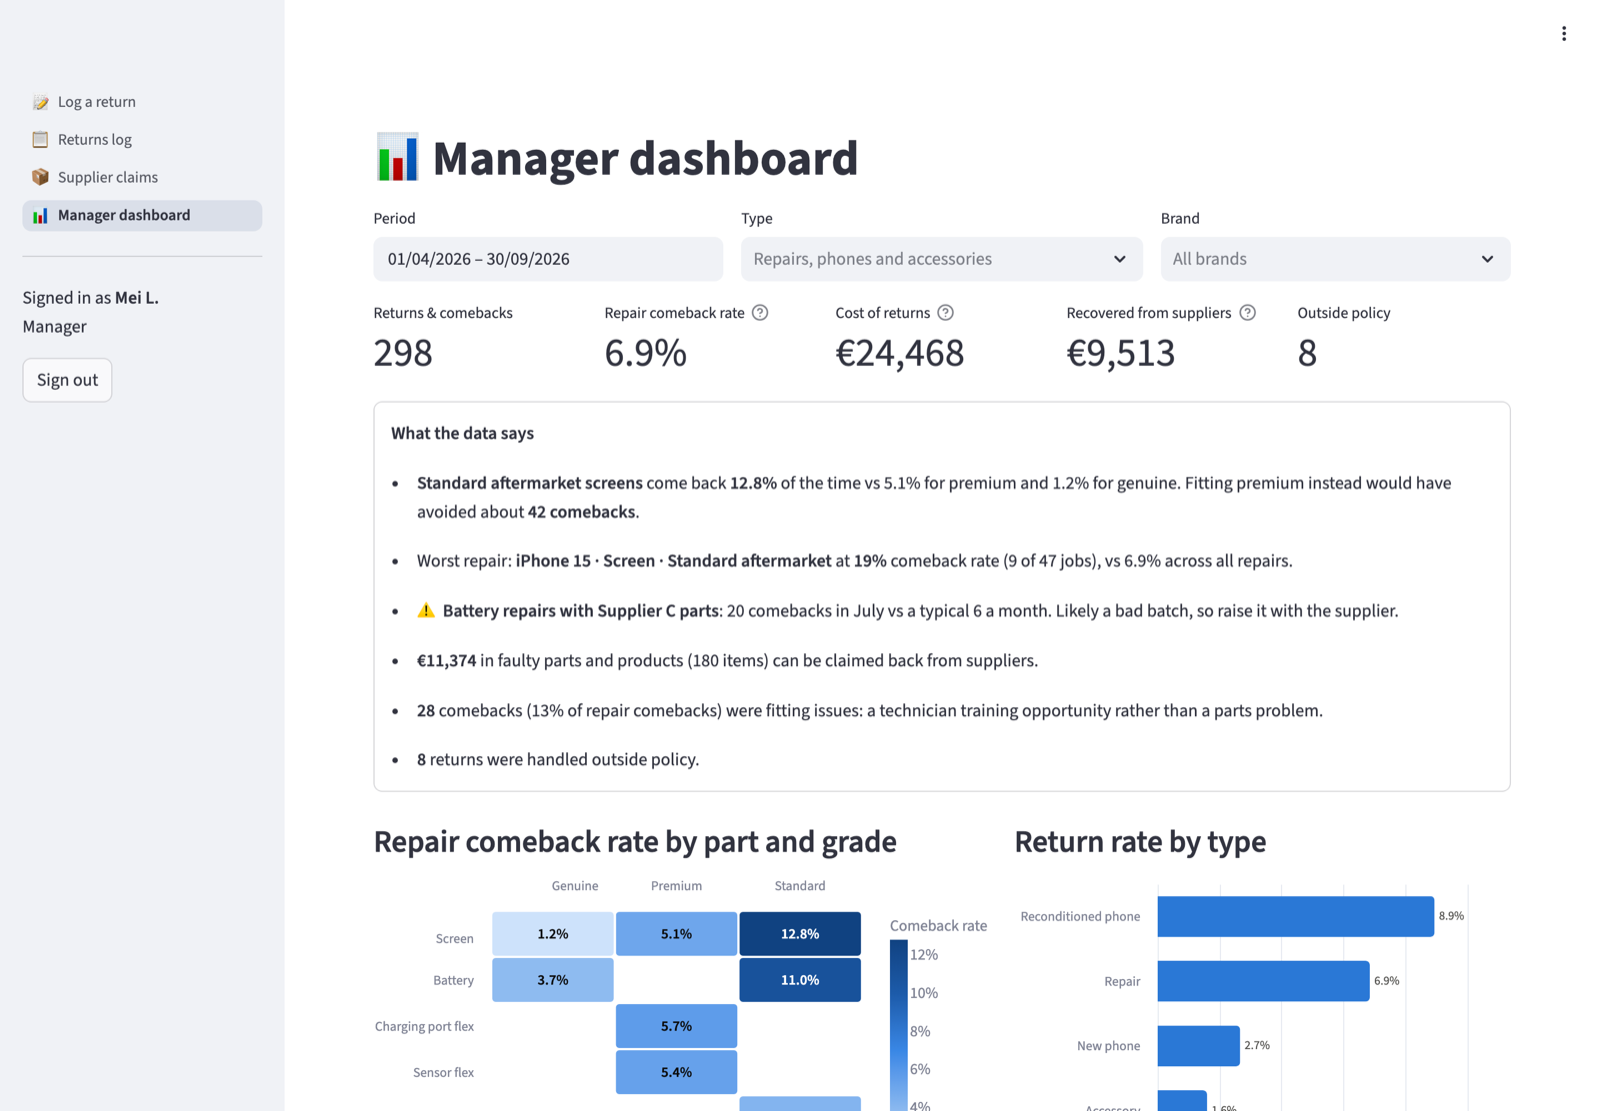
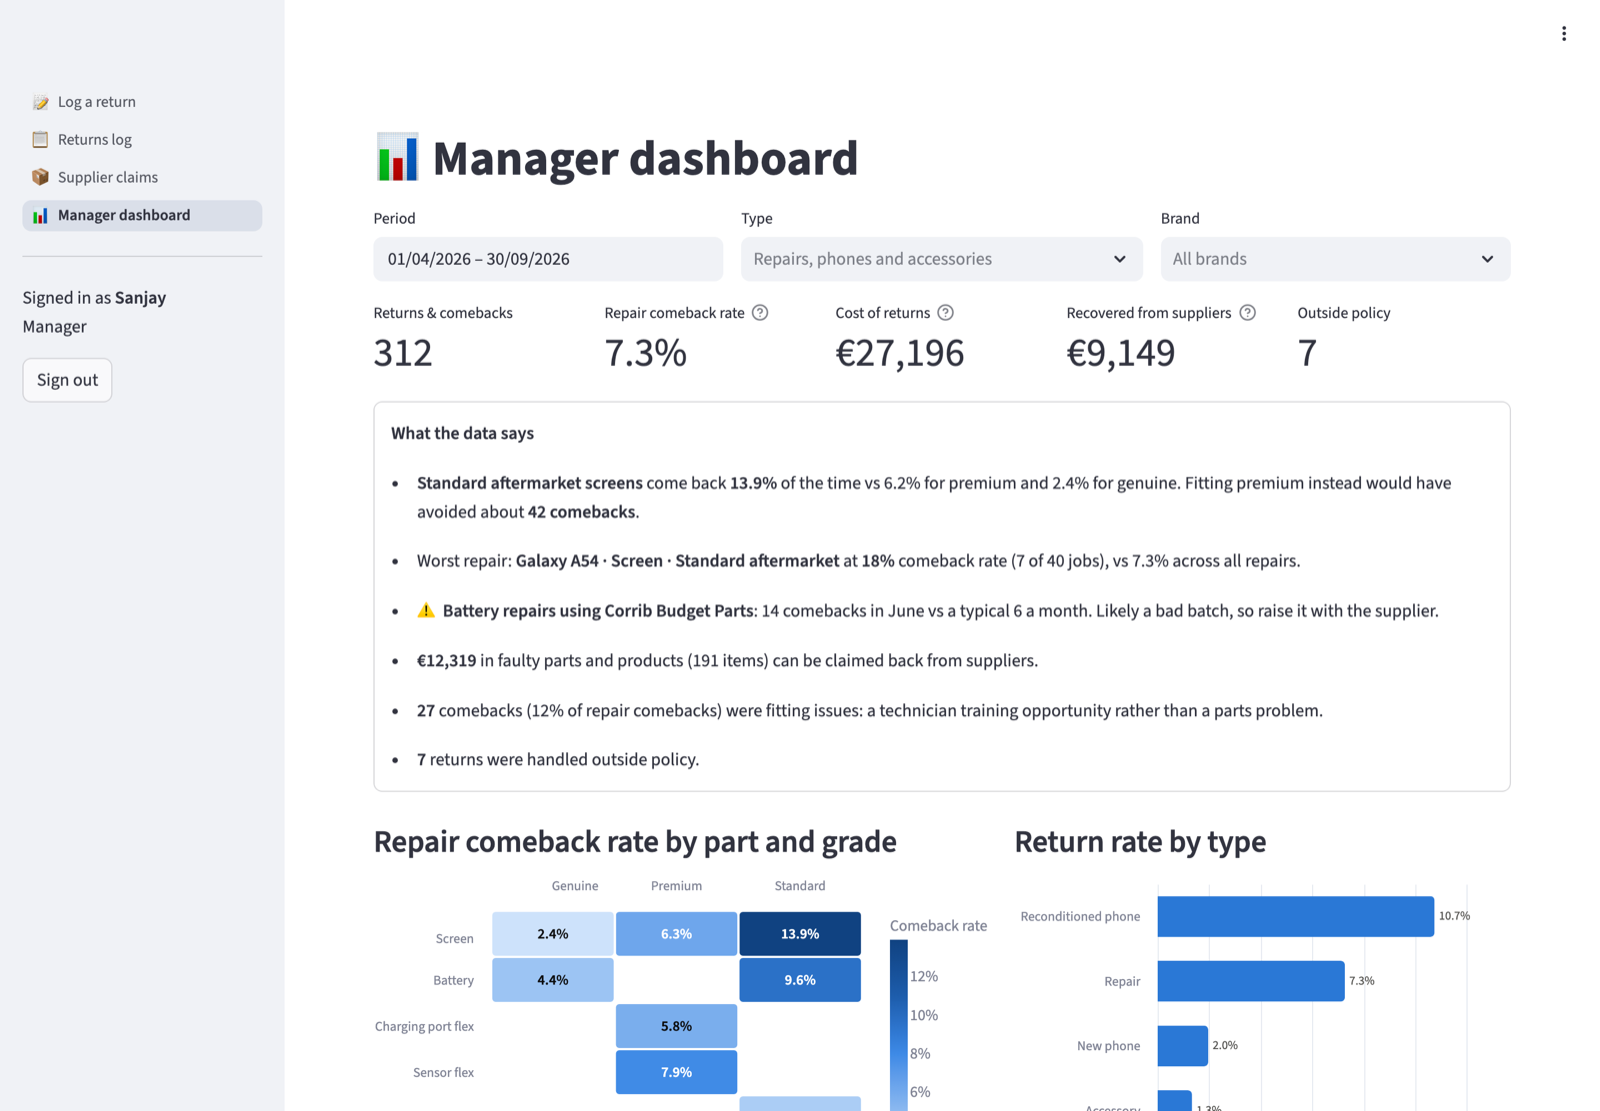
One-click demo sign-in (no passwords shown), fictional Irish supplier names, staff renamed

diff --git a/tracker/seed.py b/tracker/seed.py
@@ -5,7 +5,7 @@ Returns: ~300, mostly repair comebacks on fitted parts.
 
 Built-in patterns (so the dashboard has something to find):
 - Standard aftermarket screens come back ~5x more often than genuine screens.
-- Supplier C's aftermarket batteries had a bad batch (jobs from late May to early July).
+- Corrib Budget Parts' aftermarket batteries had a bad batch (jobs from late May to early July).
 - Google Pixel screen repairs often come back with fingerprint-sensor problems.
 - Sensor flex repairs (Face ID / proximity) are the trickiest part to get right.
 - Cheap wireless earbuds and fast chargers are the accessories most often returned faulty.
@@ -35,7 +35,8 @@ DEVICES = {
     "OnePlus 9": ("OnePlus", 189, 65, 55), "OnePlus 10 Pro": ("OnePlus", 229, 69, 59),
     "OnePlus Nord 3": ("OnePlus", 139, 55, 49),
 }
-GRADE_SUPPLIER = {"Genuine": "Supplier A", "Premium aftermarket": "Supplier B", "Standard aftermarket": "Supplier C"}
+GRADE_SUPPLIER = {"Genuine": "Harbourline Parts", "Premium aftermarket": "Liffeyside Spares",
+                  "Standard aftermarket": "Corrib Budget Parts"}  # fictional supplier names
 GRADE_PRICE = {"Genuine": 1.0, "Premium aftermarket": 0.6, "Standard aftermarket": 0.42}
 GRADE_COST = {"Genuine": 0.45, "Premium aftermarket": 0.35, "Standard aftermarket": 0.28}
 
@@ -70,8 +71,8 @@ ACCESSORIES = [  # subcategory, name, price, cost, sales weight, return rate, wa
     ("Storage & memory", "MicroSD card 128GB", 22, 8, 3, 0.010, 90),
     ("Storage & memory", "USB flash drive 64GB", 15, 5, 2, 0.008, 90),
 ]
-STAFF = [("Ciarán B.", "technician", "ciaran"), ("Priya S.", "technician", "priya"), ("Aoife M.", "sales", "aoife"),
-         ("Tomás K.", "sales", "tomas"), ("Mei L.", "manager", "mei")]
+STAFF = [("Sanjay", "manager", "sanjay"), ("Karolina", "technician", "karolina"),
+         ("William", "technician", "william"), ("Kariana", "sales", "kariana")]
 
 BRAND_SHARE = {"Apple": 45, "Samsung": 30, "Google": 12, "OnePlus": 13}
 PART_SHARE = {"Screen": 50, "Battery": 25, "Charging port flex": 10, "Sensor flex": 5, "Back glass": 6, "Camera": 4}
@@ -134,27 +135,27 @@ def _catalogue():
             price = battery if grade == "Genuine" else round(battery * 0.75)
             rows.append(("Repair", None, brand, device, "Battery", grade, GRADE_SUPPLIER[grade], 90, price,
                          round(price * GRADE_COST[grade], 2)))
-        rows.append(("Repair", None, brand, device, "Charging port flex", "Premium aftermarket", "Supplier B", 90,
+        rows.append(("Repair", None, brand, device, "Charging port flex", "Premium aftermarket", "Liffeyside Spares", 90,
                      small, round(small * 0.3, 2)))
-        rows.append(("Repair", None, brand, device, "Sensor flex", "Premium aftermarket", "Supplier B", 90,
+        rows.append(("Repair", None, brand, device, "Sensor flex", "Premium aftermarket", "Liffeyside Spares", 90,
                      small + 30, round((small + 30) * 0.35, 2)))
         if brand != "OnePlus":
-            rows.append(("Repair", None, brand, device, "Back glass", "Standard aftermarket", "Supplier C", 90,
+            rows.append(("Repair", None, brand, device, "Back glass", "Standard aftermarket", "Corrib Budget Parts", 90,
                          small + 20, round((small + 20) * 0.25, 2)))
-        rows.append(("Repair", None, brand, device, "Camera", "Genuine", "Supplier A", 90,
+        rows.append(("Repair", None, brand, device, "Camera", "Genuine", "Harbourline Parts", 90,
                      small + 40, round((small + 40) * 0.45, 2)))
     for brand, device, price, cost in NEW_PHONES:
-        rows.append(("New phone", None, brand, device, "Brand new", None, "Distributor", 30, price, cost))
+        rows.append(("New phone", None, brand, device, "Brand new", None, "Celtic Handset Distribution", 30, price, cost))
     for brand, device, grade, price, cost in RECON_PHONES:
-        rows.append(("Reconditioned phone", None, brand, device, grade, None, "Refurb partner", 180, price, cost))
+        rows.append(("Reconditioned phone", None, brand, device, grade, None, "Renew Mobile Refurb", 180, price, cost))
     for sub, name, price, cost, _, _, warranty in ACCESSORIES:
-        rows.append(("Accessory", sub, "Universal", None, name, None, "Supplier D", warranty, price, cost))
+        rows.append(("Accessory", sub, "Universal", None, name, None, "Emerald Isle Accessories", warranty, price, cost))
     return rows
 
 
 def _repair_return(rng, brand, part, grade, supplier, day):
     rate = COMEBACK[(part, grade)]
-    in_batch = part == "Battery" and supplier == "Supplier C" and BAD_BATTERY_BATCH[0] <= day <= BAD_BATTERY_BATCH[1]
+    in_batch = part == "Battery" and supplier == "Corrib Budget Parts" and BAD_BATTERY_BATCH[0] <= day <= BAD_BATTERY_BATCH[1]
     if in_batch:
         rate *= 3.5
     if brand == "Google" and part == "Screen":
@@ -208,11 +209,11 @@ def _product_return(rng, category, subcategory, rate, warranty=None):
 
 # How each supplier handles claims: days to respond, acceptance rate, what they give back when accepted
 SUPPLIER_TERMS = {
-    "Supplier A": ((7, 14), 0.95, {"Credit note": 70, "Replacement stock": 30}),
-    "Supplier B": ((10, 20), 0.88, {"Replacement stock": 60, "Credit note": 40}),
-    "Supplier C": ((15, 40), 0.70, {"Replacement stock": 50, "Credit note": 50}),
-    "Supplier D": ((5, 12), 0.90, {"Replacement stock": 70, "Credit note": 30}),
-    "Refurb partner": ((10, 20), 0.85, {"Refund": 50, "Replacement stock": 50}),
+    "Harbourline Parts": ((7, 14), 0.95, {"Credit note": 70, "Replacement stock": 30}),
+    "Liffeyside Spares": ((10, 20), 0.88, {"Replacement stock": 60, "Credit note": 40}),
+    "Corrib Budget Parts": ((15, 40), 0.70, {"Replacement stock": 50, "Credit note": 50}),
+    "Emerald Isle Accessories": ((5, 12), 0.90, {"Replacement stock": 70, "Credit note": 30}),
+    "Renew Mobile Refurb": ((10, 20), 0.85, {"Refund": 50, "Replacement stock": 50}),
 }
 
 
@@ -221,7 +222,7 @@ def _claim_lifecycle(rng, supplier, created, quantity, cost, repair_part, quick=
     sent = created + timedelta(days=rng.randint(0, 3) if quick else rng.randint(2, 10))  # sent in weekly batches
     if sent > END:
         return ("In faulty stock", None, None, None, None, None, None)
-    rma = f"RMA-{supplier[-1] if supplier.startswith('Supplier') else 'R'}{rng.randint(1000, 9999)}"
+    rma = f"RMA-{''.join(w[0] for w in supplier.split()[:2])}{rng.randint(1000, 9999)}"
     (lo, hi), accept_rate, accepted = SUPPLIER_TERMS[supplier]
     resolved = sent + timedelta(days=rng.randint(lo, hi))
     if resolved > END:
@@ -232,7 +233,7 @@ def _claim_lifecycle(rng, supplier, created, quantity, cost, repair_part, quick=
         resolution = _pick(rng, {"Rejected - written off": 50,
                                  "Rejected - used for parts" if repair_part else "Rejected - repaired & resold": 50})
     replacement = quantity if resolution == "Replacement stock" else None
-    credit = round(cost * quantity * (0.8 if supplier == "Supplier C" else 1.0), 2) \
+    credit = round(cost * quantity * (0.8 if supplier == "Corrib Budget Parts" else 1.0), 2) \
         if resolution in ("Credit note", "Refund") else None
     return ("Closed", sent, rma, resolution, replacement, credit, resolved)
 

diff --git a/app.py b/app.py
@@ -1,7 +1,7 @@
 """Returns Tracker — Streamlit entry point. Run with: streamlit run app.py"""
 import streamlit as st
 
-from tracker.auth import DEMO_LOGINS, authenticate
+from tracker.auth import DEMO_LOGINS, DEMO_MODE, authenticate, demo_user
 from tracker.state import get_connection
 
 st.set_page_config(page_title="Returns Tracker", page_icon="📱", layout="wide")
@@ -22,10 +22,15 @@ def sign_in():
                     st.session_state.user = user
                     st.rerun()
                 st.error("Wrong username or password.")
-        with st.expander("Demo logins", expanded=True):
-            st.markdown("\n".join(f"- **{role}:** `{u}` / `{p}`" for u, p, role in DEMO_LOGINS))
-            st.caption("The manager sees everything, including the dashboard. Technicians and sales staff "
-                       "log returns and manage supplier claims.")
+        if DEMO_MODE:
+            st.markdown("**Or try the demo**")
+            cols = st.columns(len(DEMO_LOGINS))
+            for col, (username, _, role) in zip(cols, DEMO_LOGINS):
+                if col.button(f"Try as {role}", width="stretch", key=f"demo-{username}"):
+                    st.session_state.user = demo_user(conn, username)
+                    st.rerun()
+            st.caption("The manager sees everything, including the dashboard. Technicians and sales staff log "
+                       "returns and manage supplier claims. Demo data and supplier names are fictional.")
 
 
 user = st.session_state.get("user")

diff --git a/tracker/auth.py b/tracker/auth.py
@@ -1,12 +1,15 @@
 """Staff sign-in: salted PBKDF2 password hashes (no plain-text passwords stored)."""
 import hashlib
+import os
 import hmac
 import secrets
 
 ITERATIONS = 200_000
 
-# Demo accounts shown on the sign-in page of the public demo
-DEMO_LOGINS = [("mei", "manager-demo", "Manager"), ("ciaran", "tech-demo", "Technician"), ("aoife", "sales-demo", "Sales")]
+# Demo accounts: one-click "Try as…" buttons on the sign-in page when DEMO_MODE is on (passwords are never shown)
+DEMO_LOGINS = [("sanjay", "manager-demo", "Manager"), ("karolina", "tech-demo", "Technician"),
+               ("kariana", "sales-demo", "Sales")]
+DEMO_MODE = os.environ.get("RETURNS_TRACKER_DEMO", "1") == "1"  # set to 0 for real shop use
 
 
 def hash_password(password: str) -> str:
@@ -31,3 +34,11 @@ def authenticate(conn, username: str, password: str):
     if row and verify_password(password, row[3]):
         return {"id": row[0], "name": row[1], "role": row[2]}
     return None
+
+
+def demo_user(conn, username: str):
+    """Sign in as a demo account without a password — only when DEMO_MODE is on."""
+    if not DEMO_MODE or username not in {u for u, _, _ in DEMO_LOGINS}:
+        return None
+    row = conn.execute("SELECT id, name, role FROM staff WHERE username = ?", (username,)).fetchone()
+    return {"id": row[0], "name": row[1], "role": row[2]} if row else None

diff --git a/tracker/analytics.py b/tracker/analytics.py
@@ -120,7 +120,7 @@ def insights(returns, sales) -> list[str]:
                 best = (ratio, supplier, part, counts.idxmax(), n, typical)
         if best:
             _, supplier, part, month, n, typical = best
-            out.append(f"⚠ **{part} repairs with {supplier} parts**: {n} comebacks in {month.strftime('%B')} "
+            out.append(f"⚠ **{part} repairs using {supplier}**: {n} comebacks in {month.strftime('%B')} "
                        f"vs a typical {typical:.0f} a month. Likely a bad batch, so raise it with the supplier.")
 
     # 4. Money to claim back

diff --git a/tests/test_logic.py b/tests/test_logic.py
@@ -128,7 +128,7 @@ class AuthTests(unittest.TestCase):
         seed(conn)
         for username, password, role in DEMO_LOGINS:
             self.assertEqual(authenticate(conn, username, password)["role"], role.lower())
-        self.assertIsNone(authenticate(conn, "mei", "wrong-password"))
+        self.assertIsNone(authenticate(conn, "sanjay", "wrong-password"))
 
 
 class SeedTests(unittest.TestCase):

diff --git a/README.md b/README.md
@@ -4,7 +4,7 @@ A comeback, returns and supplier-claims tracker for a phone repair & accessories
 
 **Live demo:** _link coming after deployment_ · **Requirements:** [docs/requirements.md](docs/requirements.md)
 
-**Demo logins:** manager `mei` / `manager-demo` · technician `ciaran` / `tech-demo` · sales `aoife` / `sales-demo`
+**Try it:** the sign-in page has one-click **Try as Manager / Technician / Sales** buttons. All demo data, staff and supplier names are fictional.
 
 ![Manager dashboard](screenshots/dashboard-top.png)
 
@@ -52,15 +52,15 @@ In a repair shop, most of what comes back is repair comebacks: a replacement scr
 
 ## What the demo data shows
 
-The demo uses generated data: 6 months, about 7,100 repair jobs and sales, and about 280 returns (70% repair comebacks), with patterns for the dashboard to find:
+The demo uses generated data: 6 months, about 7,500 repair jobs and sales, and about 310 returns (73% repair comebacks), with patterns for the dashboard to find:
 
-- **Standard aftermarket screens come back 12.8% of the time**, vs 4.9% for premium and 2.7% for genuine. Fitting premium instead would have avoided about 40 comebacks.
-- **A bad battery batch from one supplier** shows up as 15 comebacks in June against a typical 5 a month. The dashboard flags it automatically.
-- **About €8,800 of faulty parts and products can be claimed back** from suppliers once they're recorded instead of binned.
-- **14% of repair comebacks are fitting issues**, which points to technician training rather than parts.
-- **Supplier C takes 27 days to settle a claim and accepts 83%**, vs 9 days for Supplier D. **85 units arrived damaged** across 18 deliveries.
+- **Standard aftermarket screens come back 13.9% of the time**, vs 6.2% for premium and 2.4% for genuine. Fitting premium instead would have avoided about 40 comebacks.
+- **A bad battery batch from one supplier** shows up as 14 comebacks in June against a typical 6 a month. The dashboard flags it automatically.
+- **About €9,100 was recovered from suppliers** (replacement stock, credit notes and refunds) once faulty units were tracked instead of binned.
+- **12% of repair comebacks are fitting issues**, which points to technician training rather than parts.
+- **The budget parts supplier takes 28 days to settle a claim and accepts 70%**, vs 9 days for the accessories supplier. **61 units arrived damaged** across 18 deliveries.
 
-No real customer, supplier or shop data is used.
+No real customer, supplier or shop data is used; supplier and staff names are fictional.
 
 ## Run it locally
 

diff --git a/docs/requirements.md b/docs/requirements.md
@@ -307,4 +307,4 @@ flowchart LR
 
 ## 9. Demo data
 
-The live demo uses generated data only: 6 months of repair jobs, new and reconditioned phone sales and accessory sales (about 7,100 in total), and about 280 returns, mostly repair comebacks, with realistic patterns by part, grade and supplier. No real customer, supplier or shop data is used.
+The live demo uses generated data only: 6 months of repair jobs, new and reconditioned phone sales and accessory sales (about 7,500 in total), and about 310 returns, mostly repair comebacks, with realistic patterns by part, grade and supplier. No real customer, supplier or shop data is used; supplier and staff names are fictional. On the public demo, sign-in offers one-click demo accounts instead of displaying passwords.
